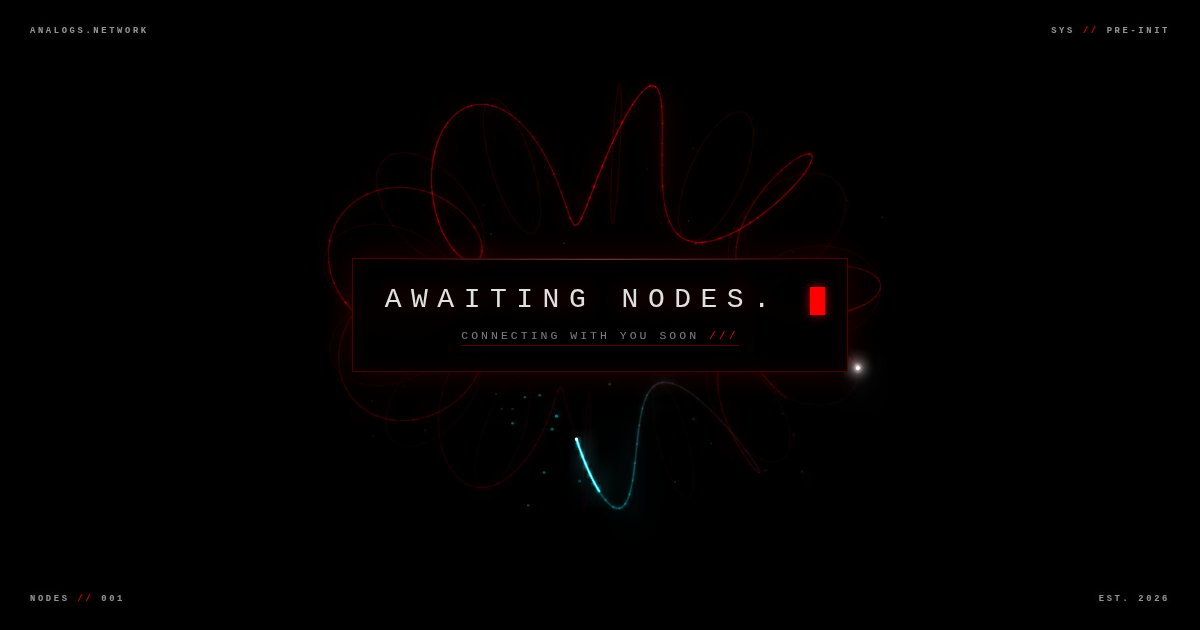
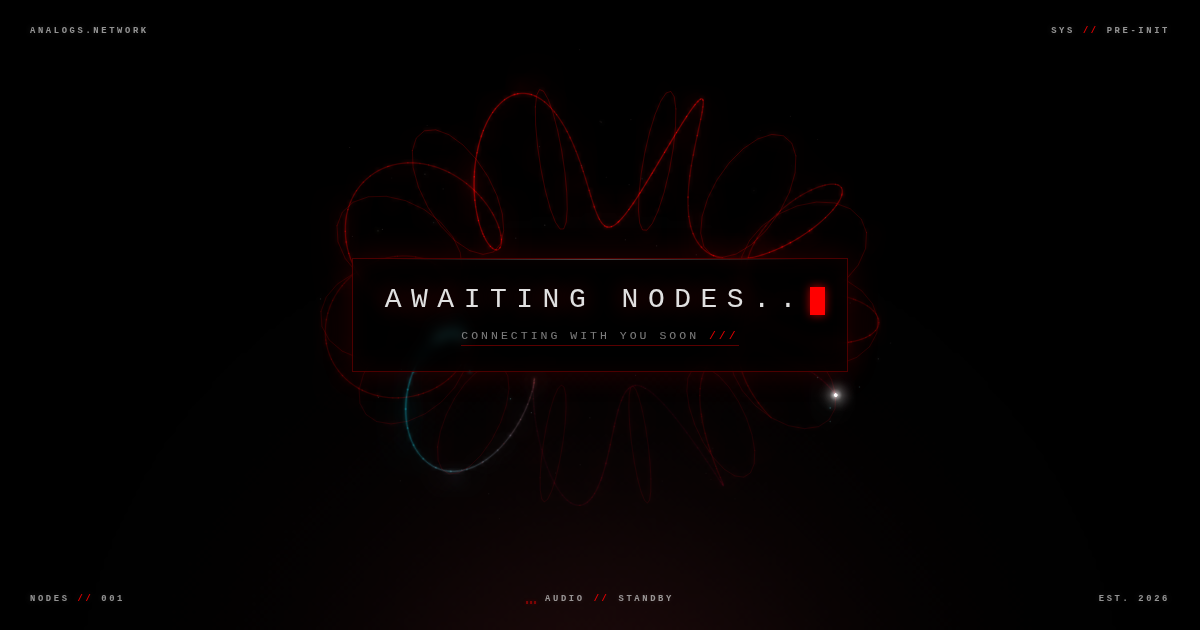
refine: floor holds its red; retire on-site node branding
- The floor was reading as a fade-out: its color eased toward a 55%
  mix with the survey packet's discipline hue, washing the pure-red
  base into muted grays within seconds of load. It now idles
  red-dominant with only a 25% packet tint, and its alphas/geometry
  match demos/ring.html exactly (0.32/0.08, radius 0.85h) — the
  same floor on both pages, always present.
- Node 000 badge removed from the page (owner call): the network
  stands independent — oaklens.art is listed in nodes/, not branded
  on the site. The 88x31 SVGs stay hosted in assets/buttons/ for
  the badge system.
- og.png recaptured from the updated page (persistent floor, no
  badge).

Claude-Session: https://claude.ai/code/session_01FRJpf4AtJodcUNGjjZ5aEW

diff --git a/index.html b/index.html
@@ -376,28 +376,6 @@ body {
   .hud-credit .long { display: none; }
 }
 
-/* ---- node 000 badge — the 88x31 handshake --------------------
-   The old web's calling card. oaklens.art is node 000; its button
-   sits above the EST line like a signature on the terminal. */
-
-.badge88 {
-  position: absolute;
-  bottom: calc(44px + env(safe-area-inset-bottom));
-  right: calc(30px + env(safe-area-inset-right));
-  z-index: 3;
-  display: block;
-  width: 88px;
-  height: 31px;
-  opacity: 0.78;
-  transition: opacity 0.25s ease, filter 0.25s ease;
-}
-.badge88:hover, .badge88:focus-visible {
-  opacity: 1;
-  filter: drop-shadow(0 0 9px rgba(255,0,0,0.5));
-  outline: none;
-}
-.badge88 img { display: block; width: 88px; height: 31px; }
-
 /* ---- motion off ---------------------------------------------- */
 
 @media (prefers-reduced-motion: reduce) {
@@ -419,12 +397,11 @@ body {
   <div class="hud hud-tr">SYS <span class="r">//</span> PRE-INIT</div>
   <div class="hud hud-bl">NODES <span class="r">//</span> 001</div>
   <div class="hud hud-br">EST. 2026</div>
+  <!-- No on-site node branding (owner call, 2026-07-14b): the network
+       stands independent. oaklens.art is listed as node 000 in nodes/;
+       its 88x31 button stays HOSTED at assets/buttons/ for the badge
+       system, just not displayed here. -->
 
-  <a class="badge88" href="https://oaklens.art" rel="noopener"
-     title="OAKLENS.ART — NODE 000">
-    <img src="assets/buttons/oaklens-art.svg" width="88" height="31"
-         alt="88x31 button: OAKLENS.ART, node 000 of the network">
-  </a>
 
   <button class="hud audio-toggle" id="audio-toggle" hidden aria-pressed="false"
           title="Ambient audio">
@@ -802,7 +779,10 @@ body {
       if (pkt >= 1) { pkt -= 1; catIdx = (catIdx + 1) % CATS.length; }
       var target = CATS[catIdx];
       cycleCur = mix(cycleCur, target, Math.min(1, dt * 1.5));
-      floorCur = mix(floorCur, mix(RED, cycleCur, 0.55), Math.min(1, dt * 1.2));
+      /* floor stays RED-dominant (a 55% packet mix washed it toward
+         muted grays — read as the floor fading out after load); the
+         packet only tints it. Idle look matches demos/ring.html. */
+      floorCur = mix(floorCur, mix(RED, cycleCur, 0.25), Math.min(1, dt * 1.2));
       /* a dark socket occasionally flickers — trying to come online */
       if (now > flickerAt) {
         sockets[1 + ((Math.random() * (SOCKETS - 1)) | 0)].flash = 1;
@@ -1007,13 +987,13 @@ body {
        background wash. Alphas are 2x the retired full-res floor
        because mip 0 composites at 0.5. */
     var fx = mips[0].x, fw = mips[0].c.width, fh = mips[0].c.height;
-    var fg = fx.createRadialGradient(fw / 2, fh * 1.18, 0, fw / 2, fh * 1.18, fh * 0.8);
-    fg.addColorStop(0, col(floorCur, 0.26));
-    fg.addColorStop(0.5, col(floorCur, 0.06));
+    var fg = fx.createRadialGradient(fw / 2, fh * 1.18, 0, fw / 2, fh * 1.18, fh * 0.85);
+    fg.addColorStop(0, col(floorCur, 0.32));
+    fg.addColorStop(0.5, col(floorCur, 0.08));
     fg.addColorStop(1, col(floorCur, 0));
     fx.globalCompositeOperation = 'lighter';
     fx.fillStyle = fg;
-    fx.fillRect(0, fh * 0.3, fw, fh * 0.7);
+    fx.fillRect(0, fh * 0.28, fw, fh * 0.72);
     fx.globalCompositeOperation = 'source-over';
 
     /* temporal dither, applied AT MIP RESOLUTION (1/16 the pixels of a
